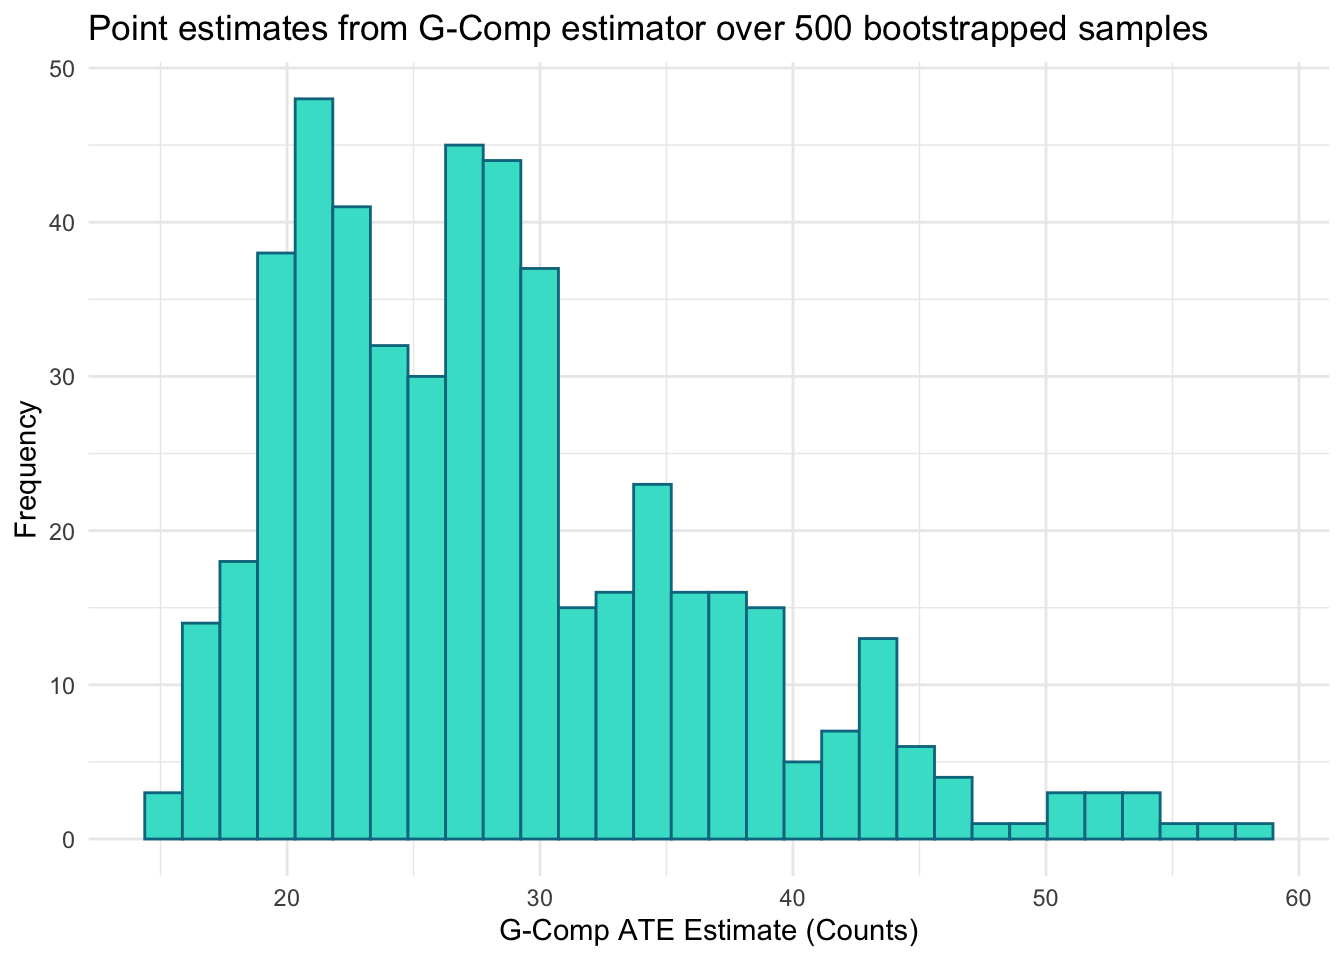
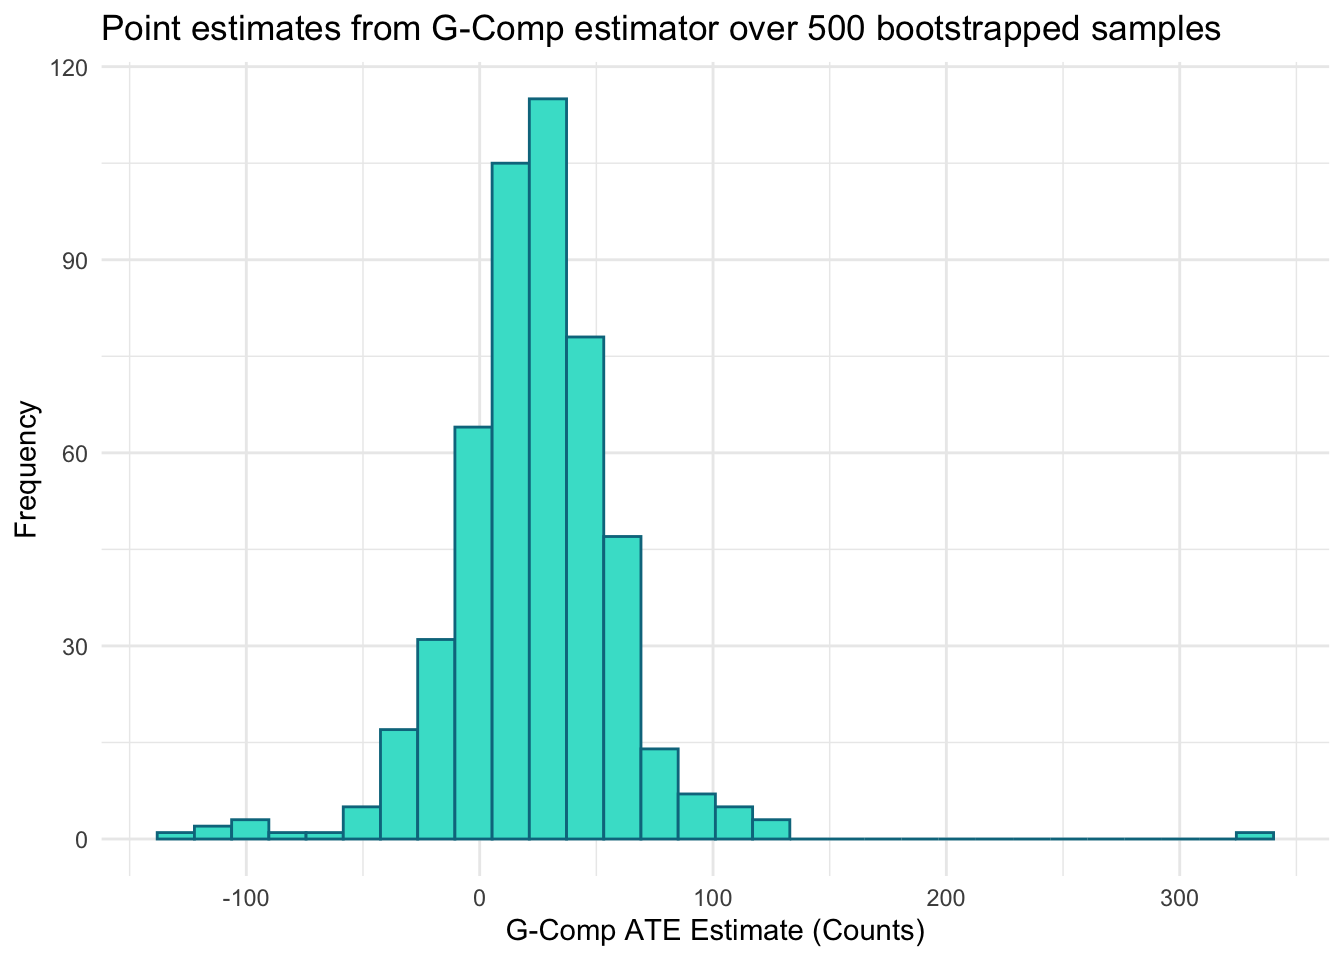
final commit.

diff --git a/Neg_Bin_Model.html b/Neg_Bin_Model.html
@@ -171,8 +171,8 @@ pre > code.sourceCode > span > a:first-child::before { text-decoration: underlin
 <span id="cb6-14"><a href="#cb6-14" aria-hidden="true" tabindex="-1"></a>  data_0<span class="sc">$</span>exposure_binary <span class="ot">&lt;-</span> <span class="dv">0</span></span>
 <span id="cb6-15"><a href="#cb6-15" aria-hidden="true" tabindex="-1"></a>  </span>
 <span id="cb6-16"><a href="#cb6-16" aria-hidden="true" tabindex="-1"></a>  <span class="co">#predictions</span></span>
-<span id="cb6-17"><a href="#cb6-17" aria-hidden="true" tabindex="-1"></a>  mu1 <span class="ot">&lt;-</span> <span class="fu">predict</span>(counts_fit, <span class="at">newdata =</span> data_1, <span class="at">type =</span> <span class="st">"response"</span>)</span>
-<span id="cb6-18"><a href="#cb6-18" aria-hidden="true" tabindex="-1"></a>  mu0 <span class="ot">&lt;-</span> <span class="fu">predict</span>(counts_fit, <span class="at">newdata =</span> data_0, <span class="at">type =</span> <span class="st">"response"</span>)</span>
+<span id="cb6-17"><a href="#cb6-17" aria-hidden="true" tabindex="-1"></a>  mu1 <span class="ot">&lt;-</span> <span class="fu">predict</span>(mod, <span class="at">newdata =</span> data_1, <span class="at">type =</span> <span class="st">"response"</span>)</span>
+<span id="cb6-18"><a href="#cb6-18" aria-hidden="true" tabindex="-1"></a>  mu0 <span class="ot">&lt;-</span> <span class="fu">predict</span>(mod, <span class="at">newdata =</span> data_0, <span class="at">type =</span> <span class="st">"response"</span>)</span>
 <span id="cb6-19"><a href="#cb6-19" aria-hidden="true" tabindex="-1"></a>  </span>
 <span id="cb6-20"><a href="#cb6-20" aria-hidden="true" tabindex="-1"></a>  ATE <span class="ot">&lt;-</span> <span class="fu">mean</span>(mu1 <span class="sc">-</span> mu0)</span>
 <span id="cb6-21"><a href="#cb6-21" aria-hidden="true" tabindex="-1"></a>  <span class="fu">return</span>(ATE)</span>
@@ -201,12 +201,12 @@ pre > code.sourceCode > span > a:first-child::before { text-decoration: underlin
 <span id="cb8-16"><a href="#cb8-16" aria-hidden="true" tabindex="-1"></a></span>
 <span id="cb8-17"><a href="#cb8-17" aria-hidden="true" tabindex="-1"></a><span class="fu">summary</span>(counts_boot_est<span class="sc">$</span><span class="st">`</span><span class="at">Count Estimator</span><span class="st">`</span>)</span></code><button title="Copy to Clipboard" class="code-copy-button"><i class="bi"></i></button></pre></div>
 <div class="cell-output cell-output-stdout">
-<pre><code>   Min. 1st Qu.  Median    Mean 3rd Qu.    Max. 
-  15.12   21.98   27.17   28.38   33.26   58.23 </code></pre>
+<pre><code>    Min.  1st Qu.   Median     Mean  3rd Qu.     Max. 
+-130.210    5.348   24.459   23.614   41.315  332.240 </code></pre>
 </div>
 <div class="sourceCode cell-code" id="cb10"><pre class="sourceCode r code-with-copy"><code class="sourceCode r"><span id="cb10-1"><a href="#cb10-1" aria-hidden="true" tabindex="-1"></a><span class="fu">var</span>(counts_boot_est<span class="sc">$</span><span class="st">`</span><span class="at">Count Estimator</span><span class="st">`</span>)</span></code><button title="Copy to Clipboard" class="code-copy-button"><i class="bi"></i></button></pre></div>
 <div class="cell-output cell-output-stdout">
-<pre><code>[1] 67.97352</code></pre>
+<pre><code>[1] 1271.759</code></pre>
 </div>
 </div>
 <section id="histogram-and-95-ci" class="level3">
@@ -228,7 +228,7 @@ pre > code.sourceCode > span > a:first-child::before { text-decoration: underlin
 <span id="cb12-14"><a href="#cb12-14" aria-hidden="true" tabindex="-1"></a>CI</span></code><button title="Copy to Clipboard" class="code-copy-button"><i class="bi"></i></button></pre></div>
 <div class="cell-output cell-output-stdout">
 <pre><code>        pt CI.lo.normal CI.hi.normal CI.lo.quant CI.hi.quant
-1 28.49236     12.33323     44.65149    17.25525    48.97424</code></pre>
+1 28.49236    -41.40335     98.38807   -42.61664    90.80324</code></pre>
 </div>
 <div class="sourceCode cell-code" id="cb14"><pre class="sourceCode r code-with-copy"><code class="sourceCode r"><span id="cb14-1"><a href="#cb14-1" aria-hidden="true" tabindex="-1"></a>counts_boot_est<span class="sc">%&gt;%</span></span>
 <span id="cb14-2"><a href="#cb14-2" aria-hidden="true" tabindex="-1"></a>  <span class="fu">ggplot</span>(<span class="fu">aes</span>(<span class="at">x =</span> <span class="st">`</span><span class="at">Count Estimator</span><span class="st">`</span>)) <span class="sc">+</span></span>
